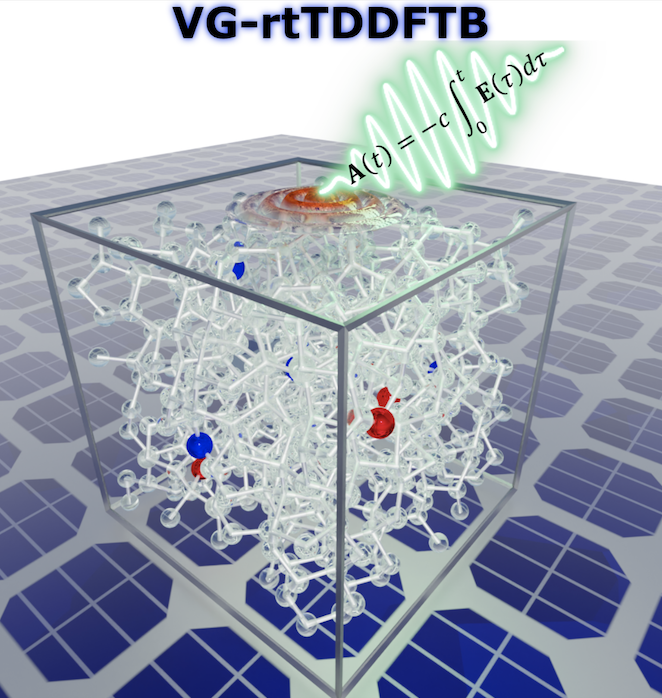
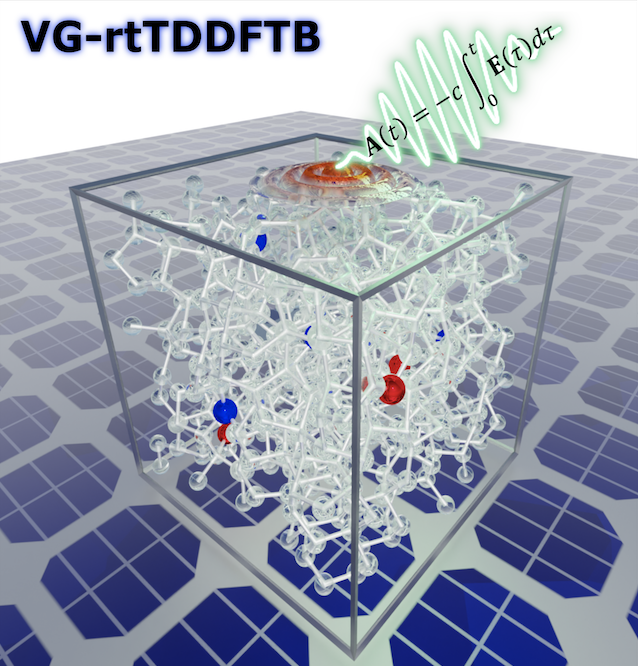
dftb images final

diff --git a/_pages/research.md b/_pages/research.md
@@ -13,7 +13,7 @@ In short, I am committed to developing fast and accurate computational theories 
 
 We first derived and implemented a new velocity-gauge real-time, time-dependent density functional tight-binding (VG-rtTDDFTB) method in the open-source DFTB+ software package for probing electronic excitations in large, condensed matter systems. Our VG-rtTDDFTB approach enables real-time electron dynamics simulations of large, periodic, condensed matter systems containing thousands of atoms with a favorable computational scaling as a function of system size. Taken together, our VG-rtTDDFTB approach enables new electron dynamics simulations of complex systems that require large periodic supercells, such as crystal defects, complex surfaces, nanowires, and amorphous materials.
 * Theoretical Development. See Ref.[Q. Xu et al., JCTC (2023)](https://doi.org/10.48550/arXiv.2308.09782)  
-JCTC Cover<br/><img src='/images/dftb.png' width="300" height="300" >
+<br/><img src='/images/dftb.png' width="286" height="300" >
 
 **2. Orbital-Free DFT**
 
